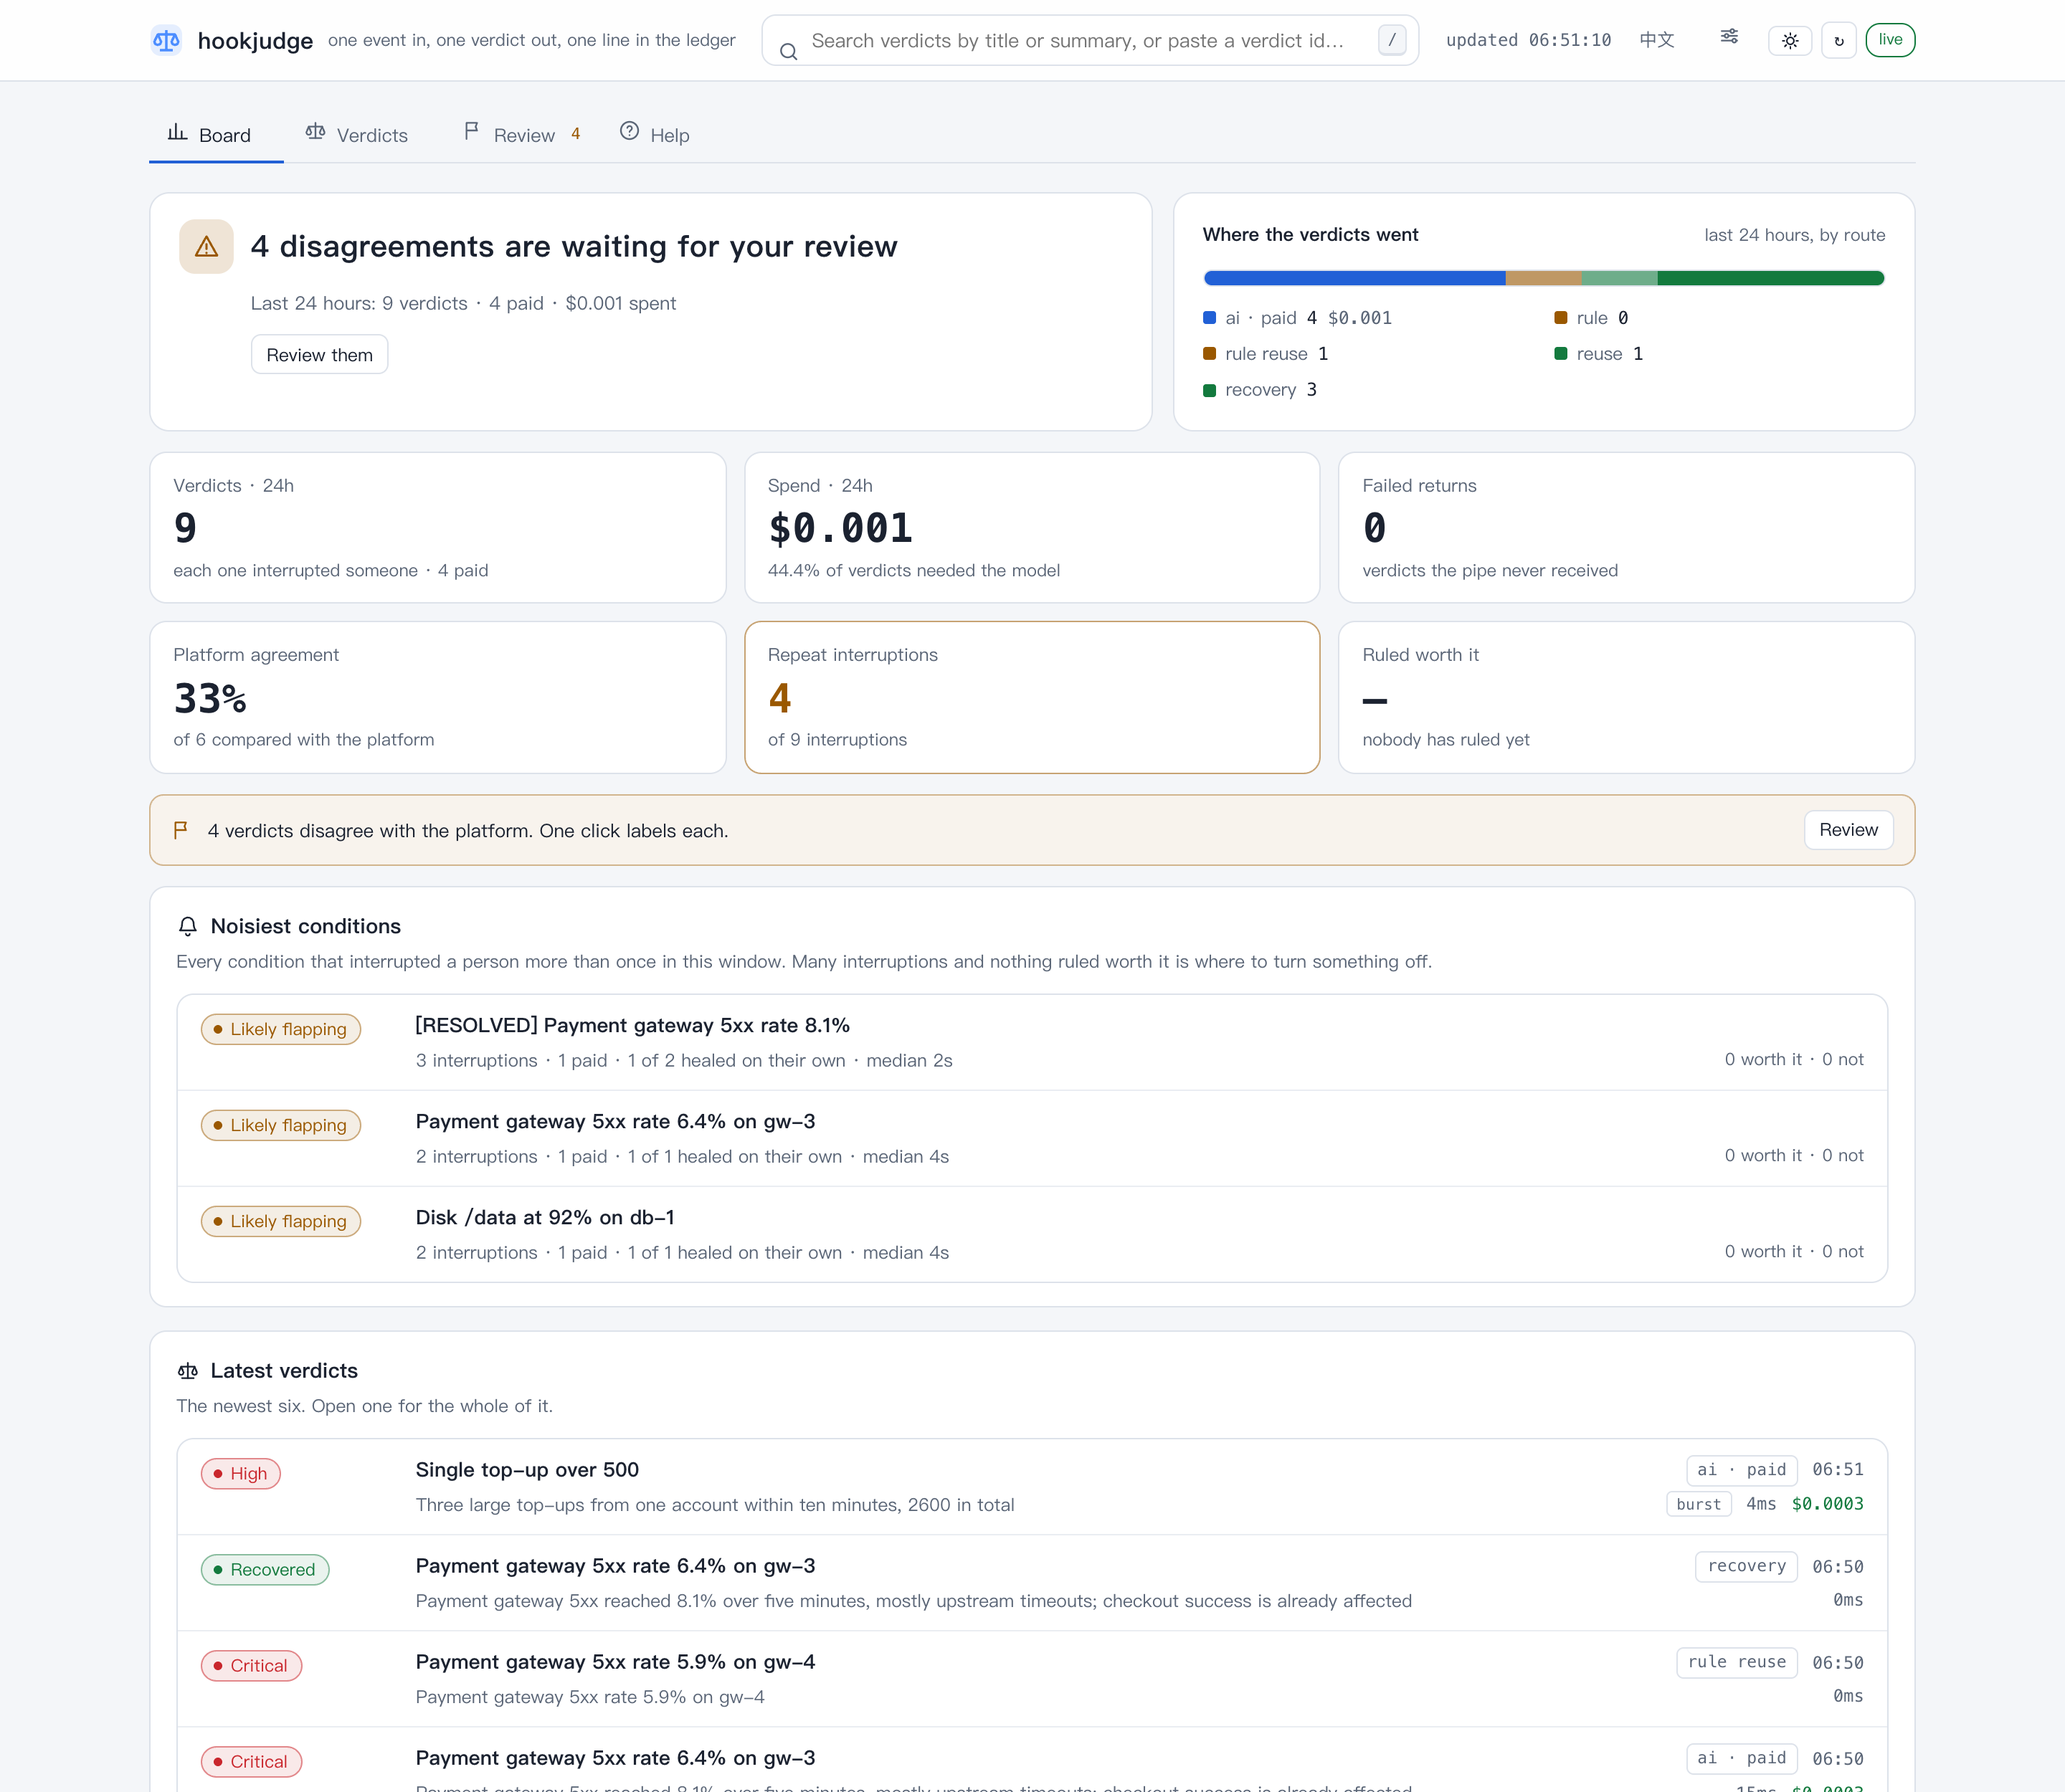
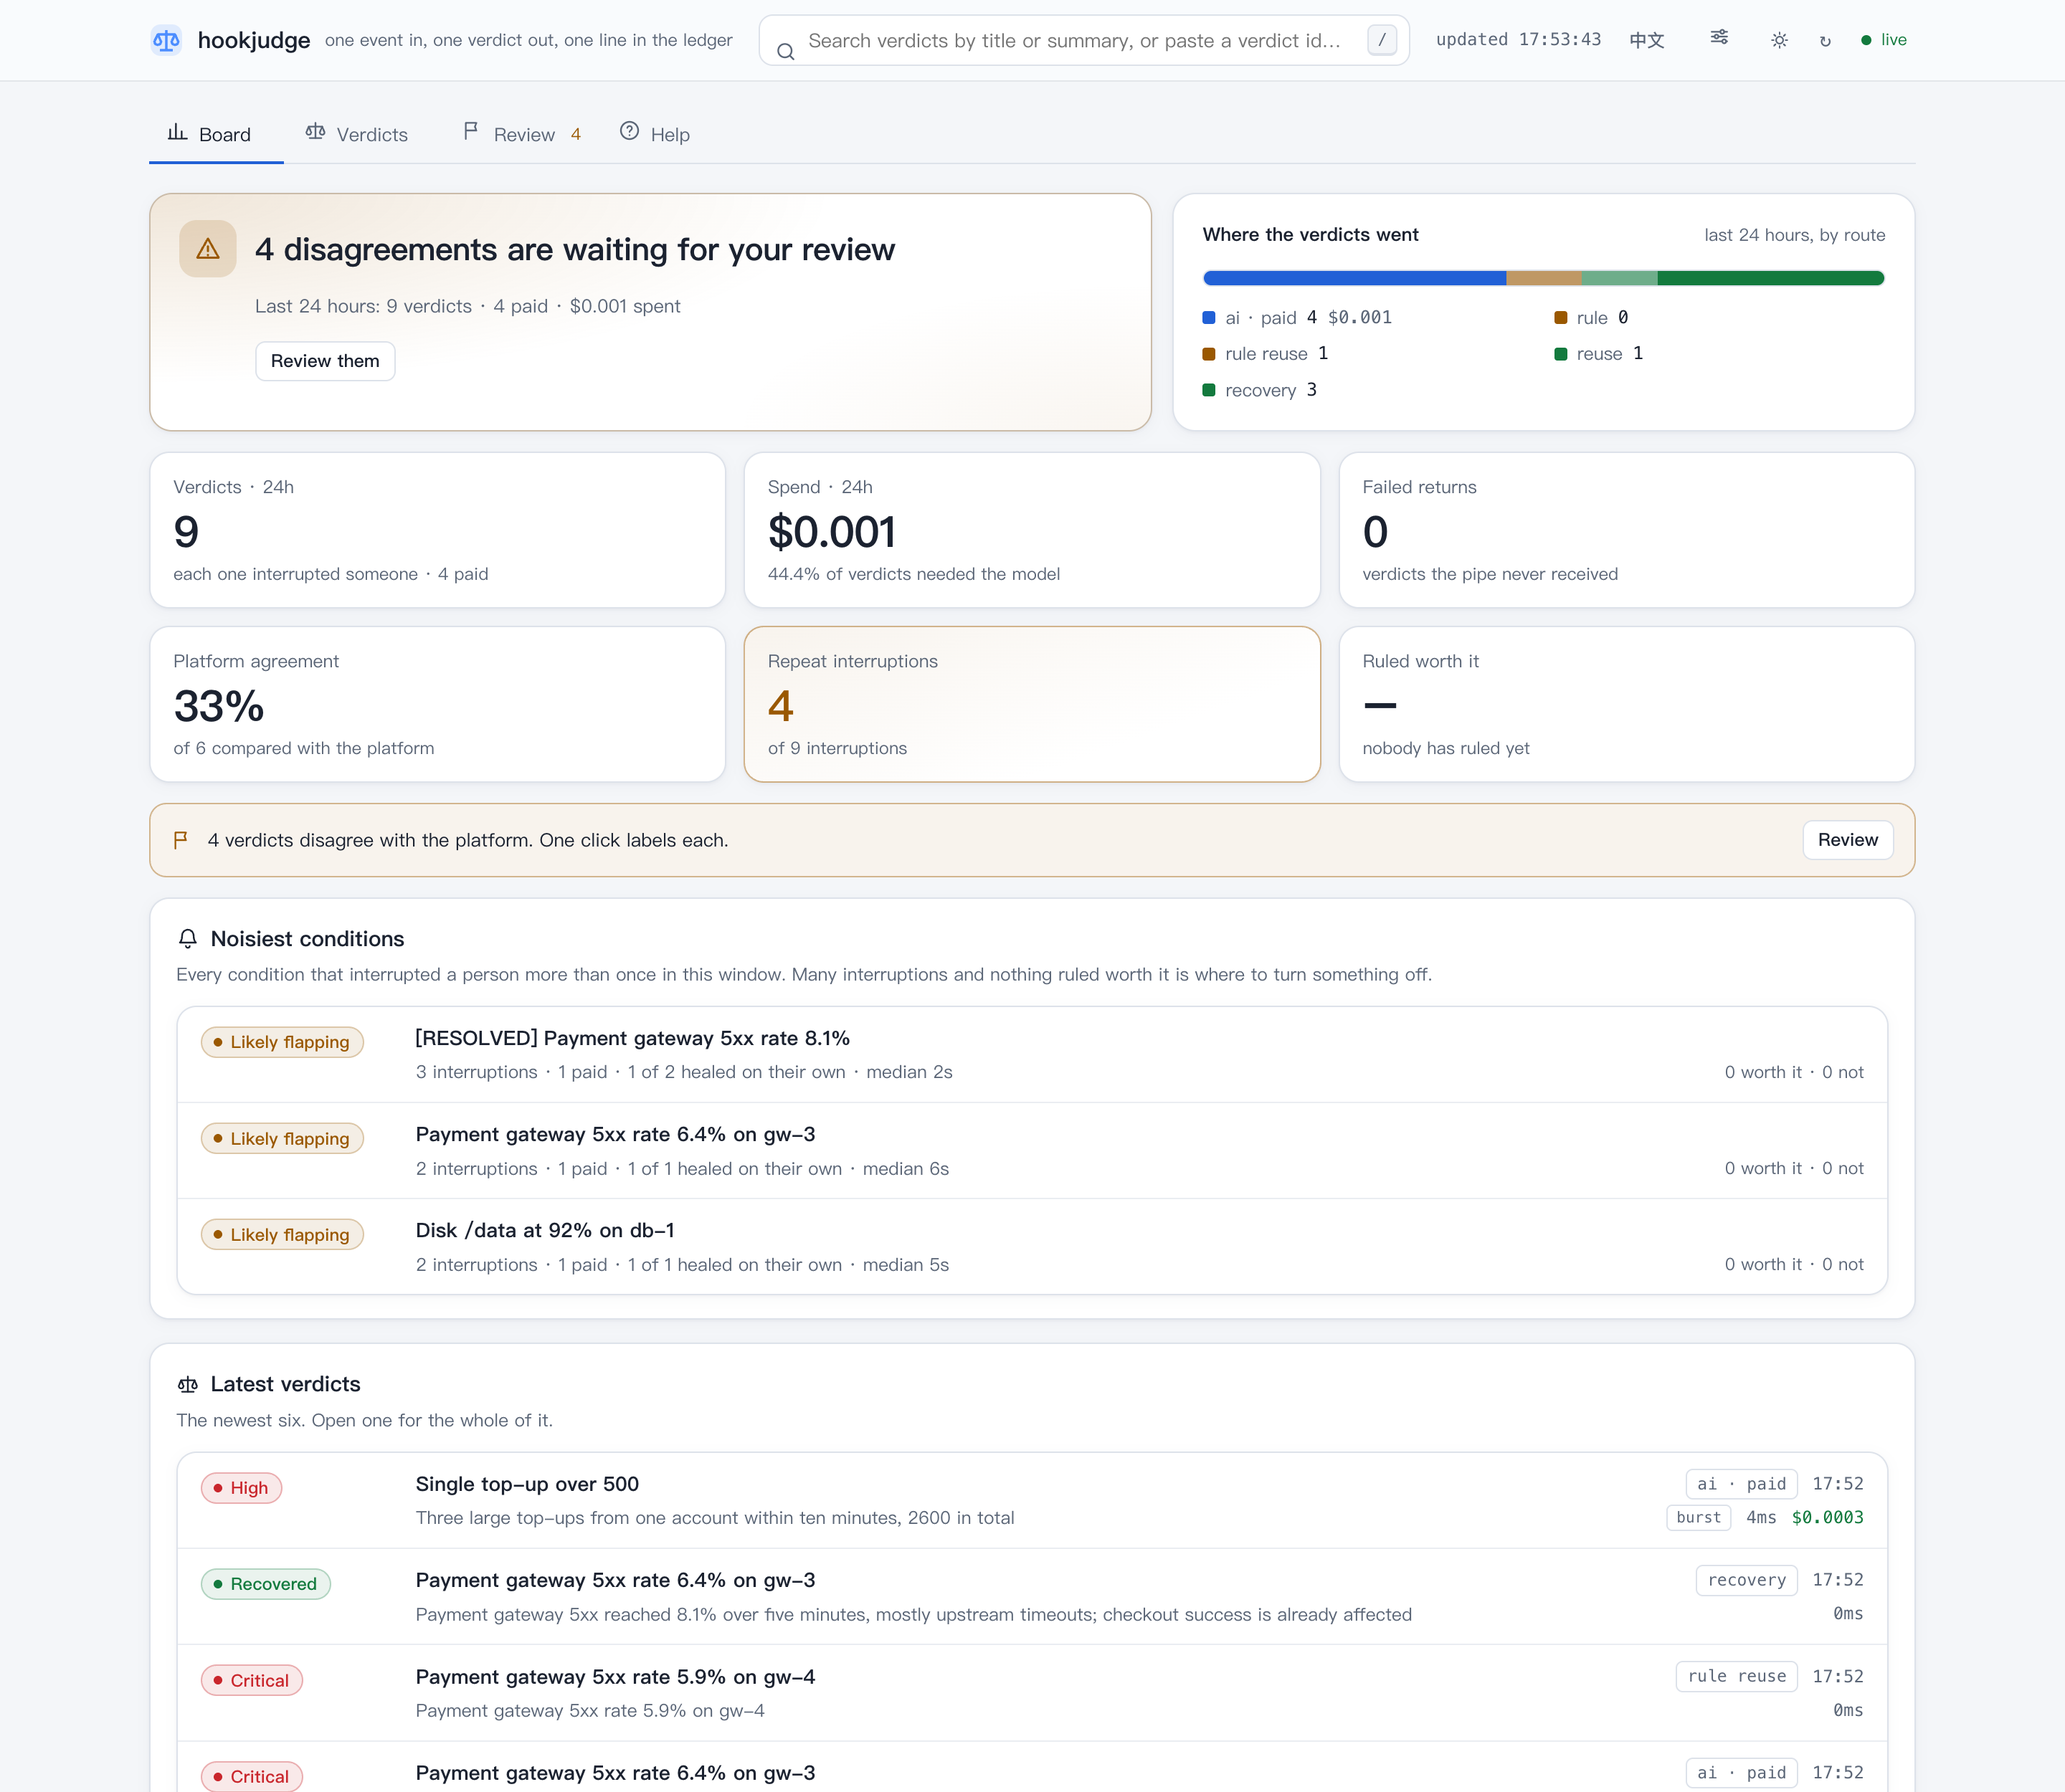
docs: every picture in the new look
The eight desktop pictures still in the old look are retaken at $0: the
judge's board, the rehearsal run, the actions page, the work board and the
runbook from the no-key demo plus four alerts; the pipe's board and ledger
from the stack smoke with every inbox state on screen. The numbers they
show match the prose as it was, except the work board, which now shows
the five pieces of work the four extra alerts leave and says which one
closed without a person.

Also fixed: "four pictures of one loop, from the no-key demo" ended on the
stack smoke's alert, not the demo's. The last of the four is now the
demo's own disk alert from the pipe's side.

diff --git a/OVERVIEW.md b/OVERVIEW.md
@@ -16,7 +16,7 @@ Every screenshot is from a local run started from nothing, not a mockup. The
 investigator's pictures come from five real investigations on `glm-5.3` on
 2026-11-12 ($0.44 together at Z.ai's list rates, through Zhipu's endpoint that
 speaks the Anthropic dialect). The rest come from the no-key demo and the stack
-smoke on 2026-09-30, and the phones from the demo on 2026-11-12.
+smoke, the same day.
 
 ```
 upstream alert sources (Grafana / Alertmanager / cloud monitoring …)
@@ -205,16 +205,18 @@ What the approve press did: both steps ran as argv with their exit codes and
 output, and the procedure **held**, because the condition ended afterwards.
 Exit 0 alone verifies nothing; the recovery is the witness.
 
-![the work board: two pieces of work done, one verified by its procedure, none closed without a person](docs/img/hookprobe-work-board.png)
+![the work board: five pieces of work done, two verified, one by its procedure and one by its recovery, and only the one that ended on its own closed without a person](docs/img/hookprobe-work-board.png)
 
 One card per piece of work. The disk investigation is `verified ·
-remediation`, and the header reads `0 closed without anyone stepping in`: an
-approval is a person stepping in, and the board says so.
+remediation`; gw-3's is `verified · recovery`, because its condition ended on
+its own, and the header counts exactly that one as `closed without anyone
+stepping in`. An approval is a person stepping in, and the board says so.
 
 ![the disk alert's story on the pipe's board: seven stages top to bottom — the verdict, six cards and what each carried, the report, the approve press named with its actor, the condition ending, the fix held](docs/img/hookrelay-audit-press.png)
 
 The same alert from the pipe's side: received, judged, six cards notified,
-investigated, approved by a named person, the condition ending, the fix held.
+investigated, approved by a named actor (here the demo, pressing as a person
+would), the condition ending, the fix held.
 
 ## On a phone
 
